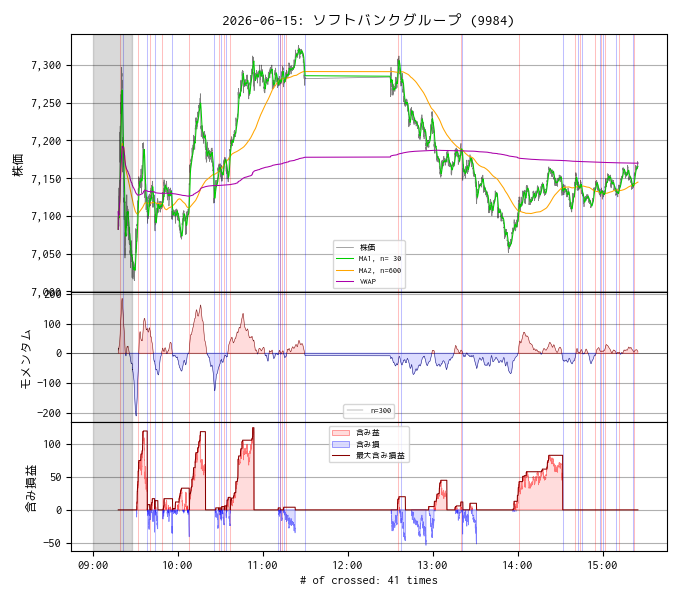
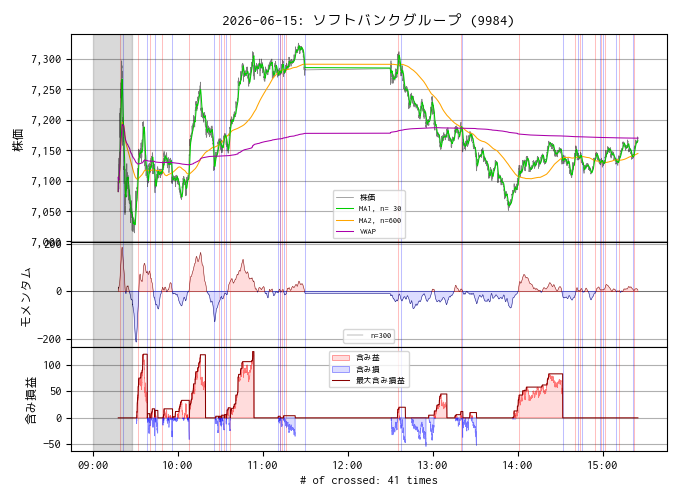
update

Changed region(s): [[0.0, 0.0, 0.9882, 0.99]]

diff --git a/tools/profit_sim_widgets.py b/tools/profit_sim_widgets.py
@@ -3,19 +3,42 @@ import os
 import pandas as pd
 from PySide6.QtCore import QMargins, Signal
 from PySide6.QtGui import QAction, QIcon
-from PySide6.QtWidgets import QToolBar, QWidget
+from PySide6.QtWidgets import QDockWidget, QToolBar
 
 from structs.res import AppRes
+from widgets.combos import ComboBox
+from widgets.containers import PadH, Widget
 from widgets.dialogs import DlgOutputFileSel
 from widgets.labels import Label, LabelTime
+from widgets.layouts import VBoxLayout
 
 
-class BaseWidget(QWidget):
+class BaseWidget(Widget):
     def __init__(self, res: AppRes):
         super().__init__()
         self.setContentsMargins(QMargins(0, 0, 0, 0))
         self.setFixedHeight(res.trend_height)
         self.setMinimumWidth(res.trend_width)
+
+
+class ProfitSimulatorDock(QDockWidget):
+    def __init__(self, res: AppRes):
+        super().__init__()
+        self.res = res
+        panel = ProfitSimulatorPanel(res)
+        self.setWidget(panel)
+
+
+class ProfitSimulatorPanel(Widget):
+    def __init__(self, res: AppRes):
+        super().__init__()
+        self.res = res
+        layout = VBoxLayout()
+        self.setLayout(layout)
+
+        self.combo = combo = ComboBox()
+        combo.setFixedWidth(200)
+        layout.addWidget(combo)
 
 
 class ProfitSimulatorToolbar(QToolBar):
@@ -36,7 +59,8 @@ class ProfitSimulatorToolbar(QToolBar):
         action_open.triggered.connect(self.on_select_output)
         self.addAction(action_open)
 
-        self.addSeparator()
+        pad = PadH()
+        self.addWidget(pad)
 
         self.t_start = t_start = LabelTime()
         self.addWidget(t_start)

diff --git a/tools/profit_sim_charts.py b/tools/profit_sim_charts.py
@@ -1,15 +1,19 @@
 import matplotlib as mpl
 import pandas as pd
 from PySide6.QtCore import Signal
+from PySide6.QtGui import QAction, QIcon
 from matplotlib import font_manager as fm, dates as mdates
-from matplotlib.backends.backend_qtagg import FigureCanvasQTAgg as FigureCanvas
+from matplotlib.backends.backend_qtagg import (
+    FigureCanvasQTAgg as FigureCanvas,
+    NavigationToolbar2QT as NavigationToolbar,
+)
 from matplotlib.figure import Figure
 from matplotlib.widgets import RectangleSelector
 
 from tools.profit_sim_funcs import to_pd_dt
 
 
-class ReviewChart(FigureCanvas):
+class ProfitReviewChart(FigureCanvas):
     notifySelection = Signal(pd.Timestamp, pd.Timestamp)
 
     def __init__(self):
@@ -87,3 +91,22 @@ class ReviewChart(FigureCanvas):
 
     def setSelectorActive(self, state: bool):
         self.selector.set_active(state)
+
+
+class ProfitReviewChartNavigation(NavigationToolbar):
+    def __init__(self, canvas: FigureCanvas):
+        super().__init__(canvas)
+        print(dir(self))
+
+        review_action = QAction(QIcon("images/pin.png"), "", self)
+        review_action.triggered.connect(self.on_review)
+
+        self.addAction(review_action)
+
+    def on_review(self):
+        if self.mode.name == "ZOOM":
+            self.zoom()
+
+        elif self.mode.name == "PAN":
+            self.pan()
+        print("Review clicked")

diff --git a/tools/profit_sim.py b/tools/profit_sim.py
@@ -4,19 +4,16 @@ import matplotlib as mpl
 import pandas as pd
 from PySide6.QtCore import Qt
 from PySide6.QtGui import QIcon
-from PySide6.QtWidgets import (
-    QDockWidget,
-    QMainWindow,
-    QVBoxLayout,
-)
 
 from structs.res import AppRes
-from tools.profit_sim_charts import ReviewChart
+from tools.profit_sim_charts import ProfitReviewChart, ProfitReviewChartNavigation
 from tools.profit_sim_funcs import get_x_range, get_y_range
-from tools.profit_sim_widgets import BaseWidget, ProfitSimulatorToolbar
+from tools.profit_sim_widgets import BaseWidget, ProfitSimulatorToolbar, ProfitSimulatorDock
+from widgets.containers import MainWindow
+from widgets.layouts import VBoxLayout
 
 
-class ProfitSimulator(QMainWindow):
+class ProfitSimulator(MainWindow):
     def __init__(self):
         super().__init__()
         self.res = res = AppRes()
@@ -31,14 +28,16 @@ class ProfitSimulator(QMainWindow):
         toolbar.sendDataFrame.connect(self.on_plot)
 
         base = BaseWidget(res)
-        layout = QVBoxLayout()
+        layout = VBoxLayout()
         base.setLayout(layout)
-        self.trend = trend = ReviewChart()
+        self.trend = trend = ProfitReviewChart()
         trend.notifySelection.connect(self.on_selection)
         trend.initChart()
         layout.addWidget(trend)
+        navtoolbar = ProfitReviewChartNavigation(trend)
+        layout.addWidget(navtoolbar)
 
-        dock = QDockWidget("Controller")
+        self.dock = dock = ProfitSimulatorDock(res)
 
         self.addToolBar(toolbar)
         self.setCentralWidget(base)